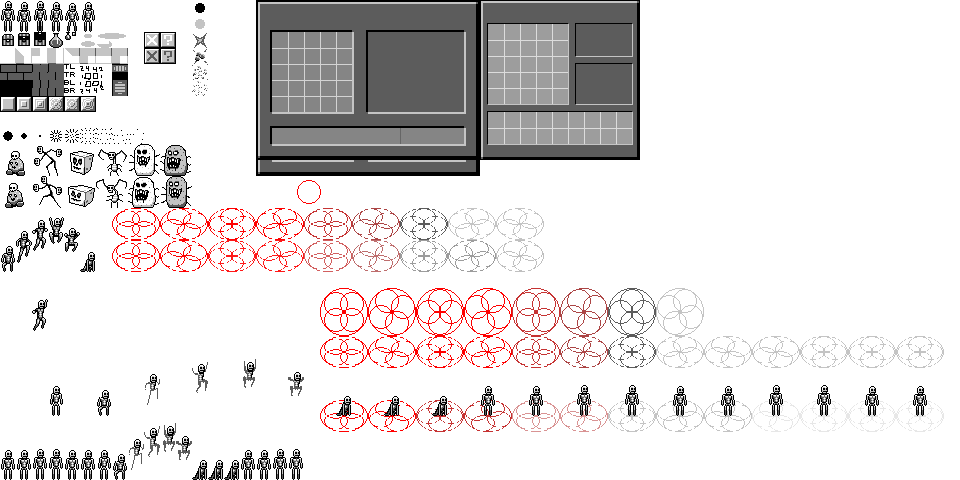
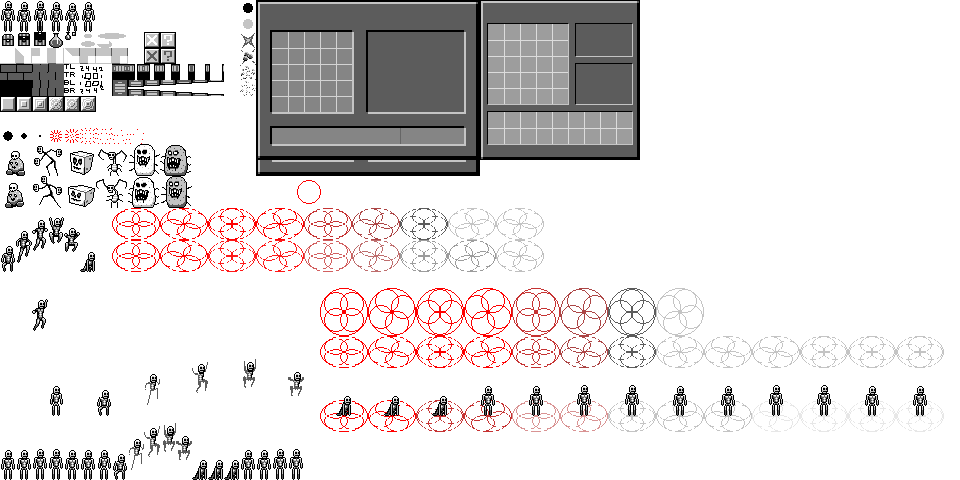
added doors

Changed region(s): [[0.125, 0.0, 0.2188, 0.2188], [0.25, 0.0, 0.2812, 0.1562]]

diff --git a/src/world/worldstate.py b/src/world/worldstate.py
@@ -1,4 +1,6 @@
-import src.renderengine.img as img   
+import random
+
+import src.renderengine.img as img
 import src.game.spriteref as spriteref
 from src.utils.util import Utils
 
@@ -19,7 +21,8 @@ class World:
         self._level_geo = []
         for _ in range(0, width):
             self._level_geo.append([World.EMPTY] * height)
-        self._geo_bundle_lookup = {} # x,y -> bundle id
+        self._geo_bundle_lookup = {}  # x,y -> bundle id
+        self._dirty_bundles = []
             
         self.entities = []
         self._ents_to_remove = []
@@ -65,13 +68,16 @@ class World:
         
         return res       
         
-    def set_geo(self, grid_x, grid_y, geo_id, quietly=False):
+    def set_geo(self, grid_x, grid_y, geo_id):
         if self.is_valid(grid_x, grid_y):
             self._level_geo[grid_x][grid_y] = geo_id
         elif geo_id != World.EMPTY:
             raise ValueError("Cannot set out of bounds grid cell to " + 
                     "non-empty: ({}, {}) <- {}".format(grid_x, grid_y, geo_id))
-        
+
+    def to_grid_coords(self, pixel_x, pixel_y):
+        return (pixel_x // CELLSIZE, pixel_y // CELLSIZE)
+
     def get_geo(self, grid_x, grid_y):
         if self.is_valid(grid_x, grid_y):
             return self._level_geo[grid_x][grid_y]
@@ -86,8 +92,7 @@ class World:
         return geo in World.SOLIDS
             
     def is_valid(self, grid_x, grid_y):
-        return (grid_x >= 0 and grid_x < self.size()[0] 
-                and grid_y >= 0 and grid_y < self.size()[1])
+        return 0 <= grid_x < self.size()[0] and 0 <= grid_y < self.size()[1]
         
     def size(self):
         return self._size
@@ -97,31 +102,51 @@ class World:
     
     def get_neighbor_info(self, grid_x, grid_y, mapping=lambda x: x):
         return [mapping(self.get_geo(grid_x + offs[0], grid_y + offs[1])) for offs in World.NEIGHBORS]
-    
+
+    def update_geo_bundle(self, grid_x, grid_y, and_neighbors=False):
+        if not self.is_valid(grid_x, grid_y):
+            return
+
+        bundle = self.get_geo_bundle(grid_x, grid_y)
+        sprite = self.calc_sprite_for_geo(grid_x, grid_y)
+        if bundle is not None:
+            if sprite is not None:
+                new_bun = bundle.update(new_model=sprite)
+                if new_bun is not bundle:
+                    self._dirty_bundles.append(new_bun)
+
+        if and_neighbors:
+            for n in World.NEIGHBORS:
+                self.update_geo_bundle(grid_x + n[0], grid_y + n[1], and_neighbors=False)
+
+    def calc_sprite_for_geo(self, grid_x, grid_y):
+        geo = self.get_geo(grid_x, grid_y)
+
+        if geo == World.WALL:
+            n_info = self.get_neighbor_info(grid_x, grid_y,
+                                            mapping=lambda x: 1 if x == World.WALL or x == World.DOOR else 0)
+            mults = [1, 2, 4, 8, 16, 32, 64, 128]
+            wall_img_id = sum(n_info[i] * mults[i] for i in range(0, 8))
+            return spriteref.walls[wall_img_id]
+
+        elif geo == World.FLOOR or geo == World.DOOR:
+            n_info = self.get_neighbor_info(grid_x, grid_y,
+                                            mapping=lambda x: 1 if x == World.WALL or x == World.EMPTY else 0)
+            floor_img_id = 2 * n_info[0] + 4 * n_info[1] + 1 * n_info[7]
+            return spriteref.floors[floor_img_id]
+
+        return None
+
     def get_geo_bundle(self, grid_x, grid_y):
         key = (grid_x, grid_y)
         if key in self._geo_bundle_lookup:
             return self._geo_bundle_lookup[key] 
         else:
-            geo = self.get_geo(grid_x, grid_y)
-            model = None
-            
-            if geo == World.WALL:
-                n_info = self.get_neighbor_info(grid_x, grid_y, 
-                        mapping=lambda x: 1 if x == World.WALL or x == World.DOOR else 0)
-                mults = [1, 2, 4, 8, 16, 32, 64, 128]
-                wall_img_id = sum(n_info[i] * mults[i] for i in range(0, 8))
-                model = spriteref.walls[wall_img_id]
-                
-            elif geo == World.FLOOR:
-                n_info = self.get_neighbor_info(grid_x, grid_y, 
-                        mapping=lambda x: 1 if x == World.WALL or x == World.EMPTY else 0)
-                floor_img_id = 2*n_info[0] + 4*n_info[1] + 1*n_info[7]
-                model = spriteref.floors[floor_img_id]
-            
-            if model is not None:
-                return img.ImageBundle(model, grid_x*CELLSIZE, grid_y*CELLSIZE, 
-                        scale=int(CELLSIZE/model.w), depth=10)
+            sprite = self.calc_sprite_for_geo(grid_x, grid_y)
+
+            if sprite is not None:
+                return img.ImageBundle(sprite, grid_x*CELLSIZE, grid_y*CELLSIZE,
+                        scale=int(CELLSIZE/sprite.w), depth=10)
             else:
                 return None
 
@@ -144,6 +169,9 @@ class World:
             
         for e in self.entities:
             e.update(self, gs, input_state, render_engine)
+
+        for bun in self._dirty_bundles:
+            render_engine.update(bun, layer_id=gs.WALL_LAYER)
         
         p = self.get_player()
         if p is not None:

diff --git a/src/world/entities.py b/src/world/entities.py
@@ -482,4 +482,67 @@ class PotionEntity(Entity):
             
         self.update_images()
         render_engine.update(self._img, layer_id=gs.ENTITY_LAYER)
+
+
+class DoorEntity(Entity):
+
+    def __init__(self, grid_x, grid_y, horz):
+        Entity.__init__(self, grid_x*64, grid_y*64, 64, 64)
+        self.sprites = spriteref.door_h if horz else spriteref.door_v
+        self.delay_duration = 45
+        self.delay_count = 0
+        self.opening_duration = 20
+        self.opening_count = 0
+
+        self.open_radius = 75
+
+    def update_images(self):
+        if self._img is None:
+            self._img = img.ImageBundle(None, 0, 0, scale=4)
+
+        if self.delay_count > 0:
+            sprite = self.sprites[1]
+        elif self.opening_count > 0:
+            n = len(self.sprites) - 2
+            idx = 2 + int(n * min(0.99, self.opening_count / self.opening_duration))
+            sprite = self.sprites[idx]
+        else:
+            sprite = self.sprites[0]
+
+        x = self.x()
+        y = self.y()
+        depth = 100
+        self._img = self._img.update(new_model=sprite, new_x=x, new_y=y, new_depth=depth)
+
+    def cleanup(self, gs, render_engine):
+        if self._img is not None:
+            render_engine.remove(self._img, layer_id=gs.ENTITY_LAYER)
+
+    def update(self, world, gs, input_state, render_engine):
+        if self.opening_count >= self.opening_duration:
+            world.remove(self)
+        elif self.opening_count > 0:
+            self.opening_count += 1
+        else:
+            p = world.get_player()
+            if p is not None and Utils.dist(p.center(), self.center()) <= self.open_radius:
+                self.delay_count += 1
+                if self.delay_count >= self.delay_duration:
+                    # door will open now
+                    self.delay_count = 0
+                    self.opening_count = 1
+                    grid_xy = world.to_grid_coords(*self.center())
+                    world.set_geo(*grid_xy, World.FLOOR)
+                    world.update_geo_bundle(*grid_xy, and_neighbors=True)
+                    # TODO - world_controller.door_opened(self) probably
+
+            else:
+                self.delay_count = 0
+
+
+
+
+
+        self.update_images()
+        render_engine.update(self._img, layer_id=gs.ENTITY_LAYER)
     

diff --git a/cubelike.py b/cubelike.py
@@ -8,7 +8,7 @@ from src.game.inventory import PlayerState, InventoryState
 from src.game.enemies import EnemyFactory
 
 from src.world.worldstate import World
-from src.world.entities import Player, ChestEntity
+from src.world.entities import Player, ChestEntity, DoorEntity
 from src.renderengine.engine import RenderEngine
 
 
@@ -24,13 +24,16 @@ def build_me_a_world(width, height, render_eng, gs):
     w = World(width, height)
     for x in range(0, width):
         for y in range(0, height):
-            if x == 0 or y == 0 or x == width-1 or y == height-1:
+            if x == 0 or y == 0 or x == width - 1 or y == height - 1:
                 w.set_geo(x, y, World.WALL)    
             elif x < 3 and y < 3:
                 w.set_geo(x, y, World.FLOOR)
             else:
                 if random.random() < 0.33:
                     w.set_geo(x, y, World.WALL)
+                elif random.random() < 0.05:
+                    w.set_geo(x, y, World.DOOR)
+                    w.add(DoorEntity(x, y, random.random() < 0.5))
                 else:
                     w.set_geo(x, y, World.FLOOR)
                     if random.random() < 0.05:
@@ -43,7 +46,10 @@ def build_me_a_world(width, height, render_eng, gs):
                         
     for bun in w.get_all_bundles(World.WALL):
         render_eng.update(bun, layer_id=gs.WALL_LAYER)
-        
+
+    for bun in w.get_all_bundles(World.DOOR):
+        render_eng.update(bun, layer_id=gs.FLOOR_LAYER)
+
     for bun in w.get_all_bundles(World.FLOOR):
         render_eng.update(bun, layer_id=gs.FLOOR_LAYER)
         
@@ -159,5 +165,3 @@ def run():
                 
 if __name__ == "__main__":
     run()
-        
-    

diff --git a/src/renderengine/img.py b/src/renderengine/img.py
@@ -15,6 +15,10 @@ def gen_unique_id():
 
 class ImageBundle:
 
+    @staticmethod
+    def new_bundle():
+        return ImageBundle(None, 0, 0)
+
     def __init__(self, model, x, y, scale=1, depth=1, xflip=False, color=(1, 1, 1), uid=None):
         self._unique_id = gen_unique_id() if uid is None else uid
         self._model = model
@@ -59,10 +63,10 @@ class ImageBundle:
         return self._y
         
     def width(self):
-        return self.model().width() * self.scale()
+        return self.model().width() * self.scale() if self.model() is not None else 0
         
     def height(self):
-        return self.model().height() * self.scale()
+        return self.model().height() * self.scale() if self.model() is not None else 0
         
     def scale(self):
         return self._scale

diff --git a/src/game/spriteref.py b/src/game/spriteref.py
@@ -34,6 +34,9 @@ chest_open_0 = make(16, 32, 16, 16)
 chest_open_1 = make(32, 32, 16, 16)
 chest_open_all = [chest_open_0, chest_open_1]
 
+door_v = [make(112 + i*16, 64, 16, 16) for i in range(0, 6)]
+door_h = [make(112 + i*16, 80, 16, 16) for i in range(0, 6)]
+
 enemy_glorple_all = [make(0, 144, 32, 32), make(0, 176, 32, 32)]
 enemy_trilla_all = [make(32, 144, 32, 32), make(32, 176, 32, 32)]
 enemy_dicel_all = [make(64, 144, 32, 32), make(64, 176, 32, 32)]

diff --git a/src/renderengine/engine.py b/src/renderengine/engine.py
@@ -159,10 +159,10 @@ class Shader:
 class RenderEngine:
 
     def __init__(self):
-        self.bundles = {} # (int) id -> bundle
+        self.bundles = {}  # (int) id -> bundle
         self.camera_pos = [0, 0]
         self.size = (0, 0)
-        self.layers = {} # layer_id -> layer
+        self.layers = {}  # layer_id -> layer
         self.ordered_layers = []
         self.shader = None
         

diff --git a/src/game/inventory.py b/src/game/inventory.py
@@ -165,7 +165,7 @@ class PlayerState(ActorState):
             StatType.DEF: 10,
             StatType.VIT: 10,
             PlayerStatType.TICKS_PER_ATTACK: 30,
-            PlayerStatType.MOVESPEED: 2,
+            PlayerStatType.MOVESPEED: 2.5,
             PlayerStatType.ATTACK_RADIUS: 64
         })
         
